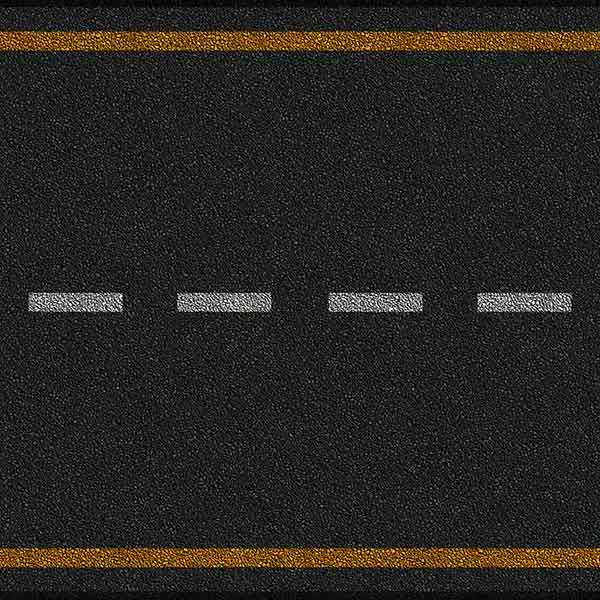
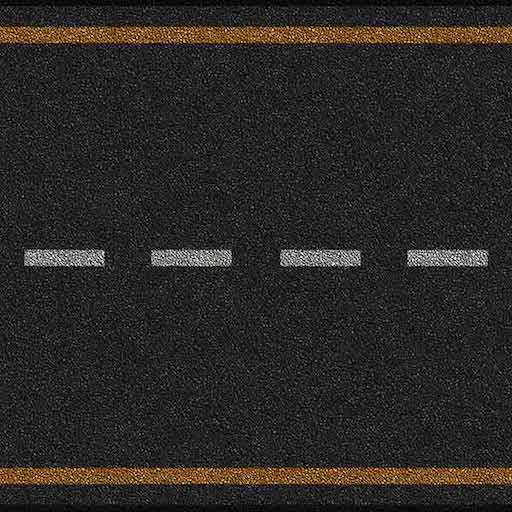
Cleanup code and resize images so they are not resized on render.

diff --git a/Scenes/sprint2a.js b/Scenes/sprint2a.js
@@ -46,6 +46,11 @@ function scriptOnLoad(currentScene){
         roadMap.repeat.x = 10;
     }
 
+    var finishMap = currentScene.getObjectByName("finish").material.map;
+    finishMap.wrapS = THREE.RepeatWrapping;
+    finishMap.wrapT = THREE.RepeatWrapping;
+    finishMap.repeat.x = 40;
+
     // Create overlay as div element and set its style
 //
     READOUT.style["position"] = "absolute";      // fixed on screen
@@ -128,18 +133,12 @@ function jumpScript(sceneNode){
                     if (!isNaN(temp.max.x) && playerBox.intersectsBox(temp)) {
                         PLAYING = false;
                         lives --;
+                        JUMPING = false;
+                        animFrame = 1;
                         if(lives < 0){
                             infoDiv.textContent = "You Lose!!!";
-                            // var loserDiv = document.createElement("h1");
-                            // var loser = document.createTextNode("You Lose!!!");
-                            // loserDiv.appendChild(loser);
-                            // READOUT.appendChild(loserDiv);
                         }else{
                             infoDiv.textContent = "Press \'r\' to try again!";
-                            // var restart = document.createTextNode("Press \'r\' to try again!");
-                            // restartDiv.style['float'] = "left";
-                            // restartDiv.appendChild(restart);
-                            // READOUT.appendChild(restartDiv);
                         }
                     }
                 }

diff --git a/index.html b/index.html
@@ -5,13 +5,10 @@
     <title>Sprint 2 Scenes</title>
 </head>
 <body>
-    <a href="engine.html?url=Scenes/scene1aPhongMaterial.json">Scene A</a>
-    <a href="engine.html?url=Scenes/scene1bPointLight.json">Scene B</a>
-    <a href="engine.html?url=Scenes/scene1cAmbientLight.json">Scene C</a>
-    <a href="engine.html?url=Scenes/scene1dHemisphereLight.json">Scene D</a>
-    <a href="engine.html?url=Scenes/scene1eBasicMaterial.json">Scene E</a>
-    <a href="engine.html?url=Scenes/scene1fGlobe.json">Scene F</a>
-    <a href="engine.html?url=Scenes/scene1gSpotLight.json">Scene G</a>
-    <a href="engine.html?url=Scenes/sprint1a.json">Custom Scene</a>
+    <a href="engine.html?url=Scenes/scene2a.json&debug=false">Scene A</a>
+    <a href="engine.html?url=Scenes/scene2b.json&debug=false">Scene B</a>
+    <a href="engine.html?url=Scenes/scene2cAsteroids.json&debug=false">Scene C</a>
+    <a href="engine.html?url=Scenes/scene2dAsteroidsLight.json&debug=false">Scene D</a>
+    <a href="engine.html?url=Scenes/sprint2a.json&debug=false">Custom Scene</a>
 </body>
 </html>
